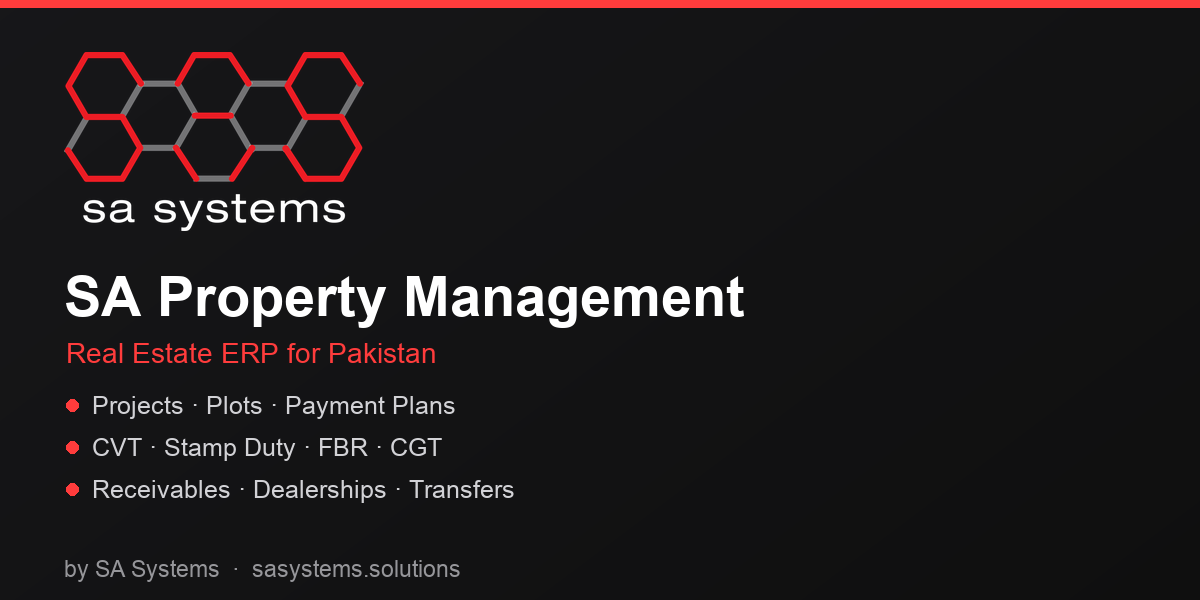
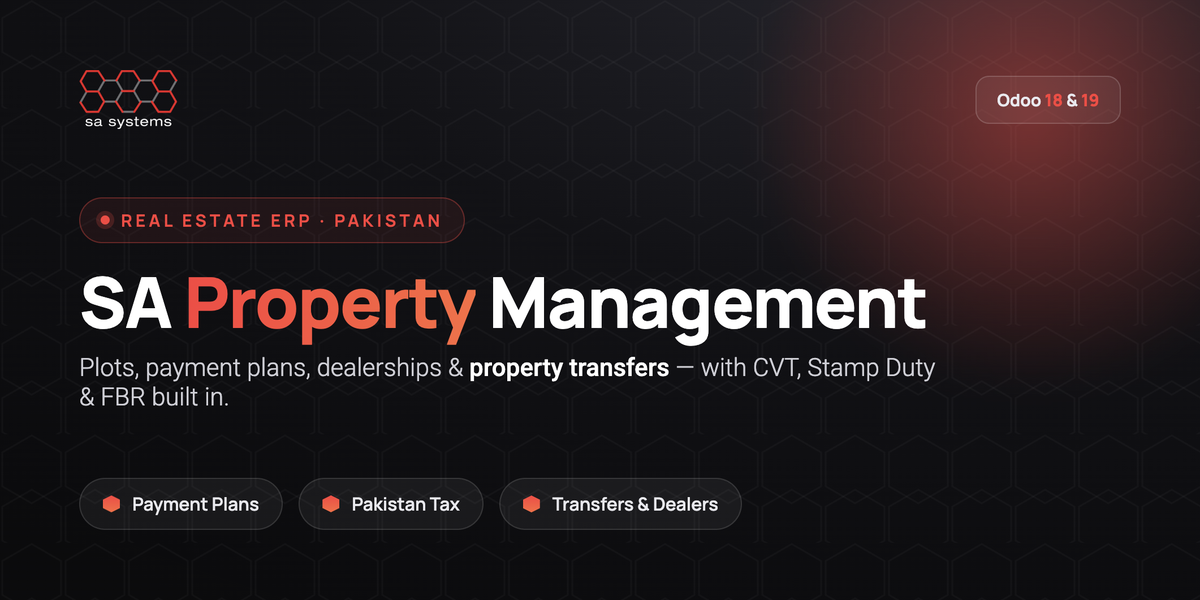
feat: premium redesign of store listing visuals
Rebuild the Apps Store description and cover banner with a polished,
on-brand SA Systems design (honeycomb texture, coral gradient depth,
a live booking/payment-plan product mock, feature cards, Pakistan tax
compliance band and brand CTA). Section images shipped as optimized
JPEGs; banner regenerated at 1200x600. Only sanitization-safe
Bootstrap classes and whitelisted inline styles in index.html.

diff --git a/sa_property_management/static/description/index.html b/sa_property_management/static/description/index.html
@@ -15,11 +15,11 @@
     .img-fluid class. No JavaScript, external CSS or non-whitelisted links.
 -->
 <section class="oe_screenshots container text-center">
-    <img class="img-fluid d-block mx-auto" src="sec_hero.png" alt="SA Property Management — Real Estate ERP for Pakistan. Housing societies, plots, apartments, payment plans, dealerships and property transfers with CVT, Stamp Duty and FBR logic built in. 6 core modules, 5+ PK tax types, Odoo 18/19, 100% configurable."/>
-    <img class="img-fluid d-block mx-auto" src="sec_features.png" alt="Core features: property and inventory management, customer CRM, flexible payment plans, Pakistan tax compliance (CVT, Stamp Duty, FBR), dealership management and property transfer workflows."/>
-    <img class="img-fluid d-block mx-auto" src="sec_architecture.png" alt="Built on Odoo's proven architecture — integrates with account, crm, mail, portal and product modules."/>
-    <img class="img-fluid d-block mx-auto" src="sec_reports.png" alt="Built-in reporting: payment plan statements, tax summaries and property ledgers."/>
-    <img class="img-fluid d-block mx-auto" src="sec_footer.png" alt="Developed by SA Systems. Licensed under OPL-1."/>
+    <img class="img-fluid d-block mx-auto" src="sec_hero.jpg" alt="SA Property Management — Real Estate ERP for Pakistan. Manage housing societies, plots, apartments, payment plans, dealerships and property transfers with CVT, Stamp Duty and FBR logic built in. 6 core modules, 5+ Pakistan tax types, Odoo 18 and 19, 100% configurable, with a live booking and payment-plan dashboard."/>
+    <img class="img-fluid d-block mx-auto" src="sec_features.jpg" alt="Core features: property and inventory management, flexible payment plans, booking and invoicing through Odoo Accounting, receivables and aging tracking, dealership commission management and configurable property transfers."/>
+    <img class="img-fluid d-block mx-auto" src="sec_architecture.jpg" alt="Built for Pakistan tax compliance — CVT, Stamp Duty, FBR Tax, Capital Gains, Registration Fee and miscellaneous charges as configurable records. Built natively on Odoo's Accounting, CRM, Discuss, Portal, Products and Contacts modules."/>
+    <img class="img-fluid d-block mx-auto" src="sec_reports.jpg" alt="Professional documents and reports: booking confirmation, installment payment schedule and a tax-itemized property transfer deed."/>
+    <img class="img-fluid d-block mx-auto" src="sec_footer.jpg" alt="Designed and developed by SA Systems for Odoo 18 and 19. Licensed under OPL-1."/>
 </section>
 
 <!-- Plain-text block: survives sanitization and keeps the support link clickable -->